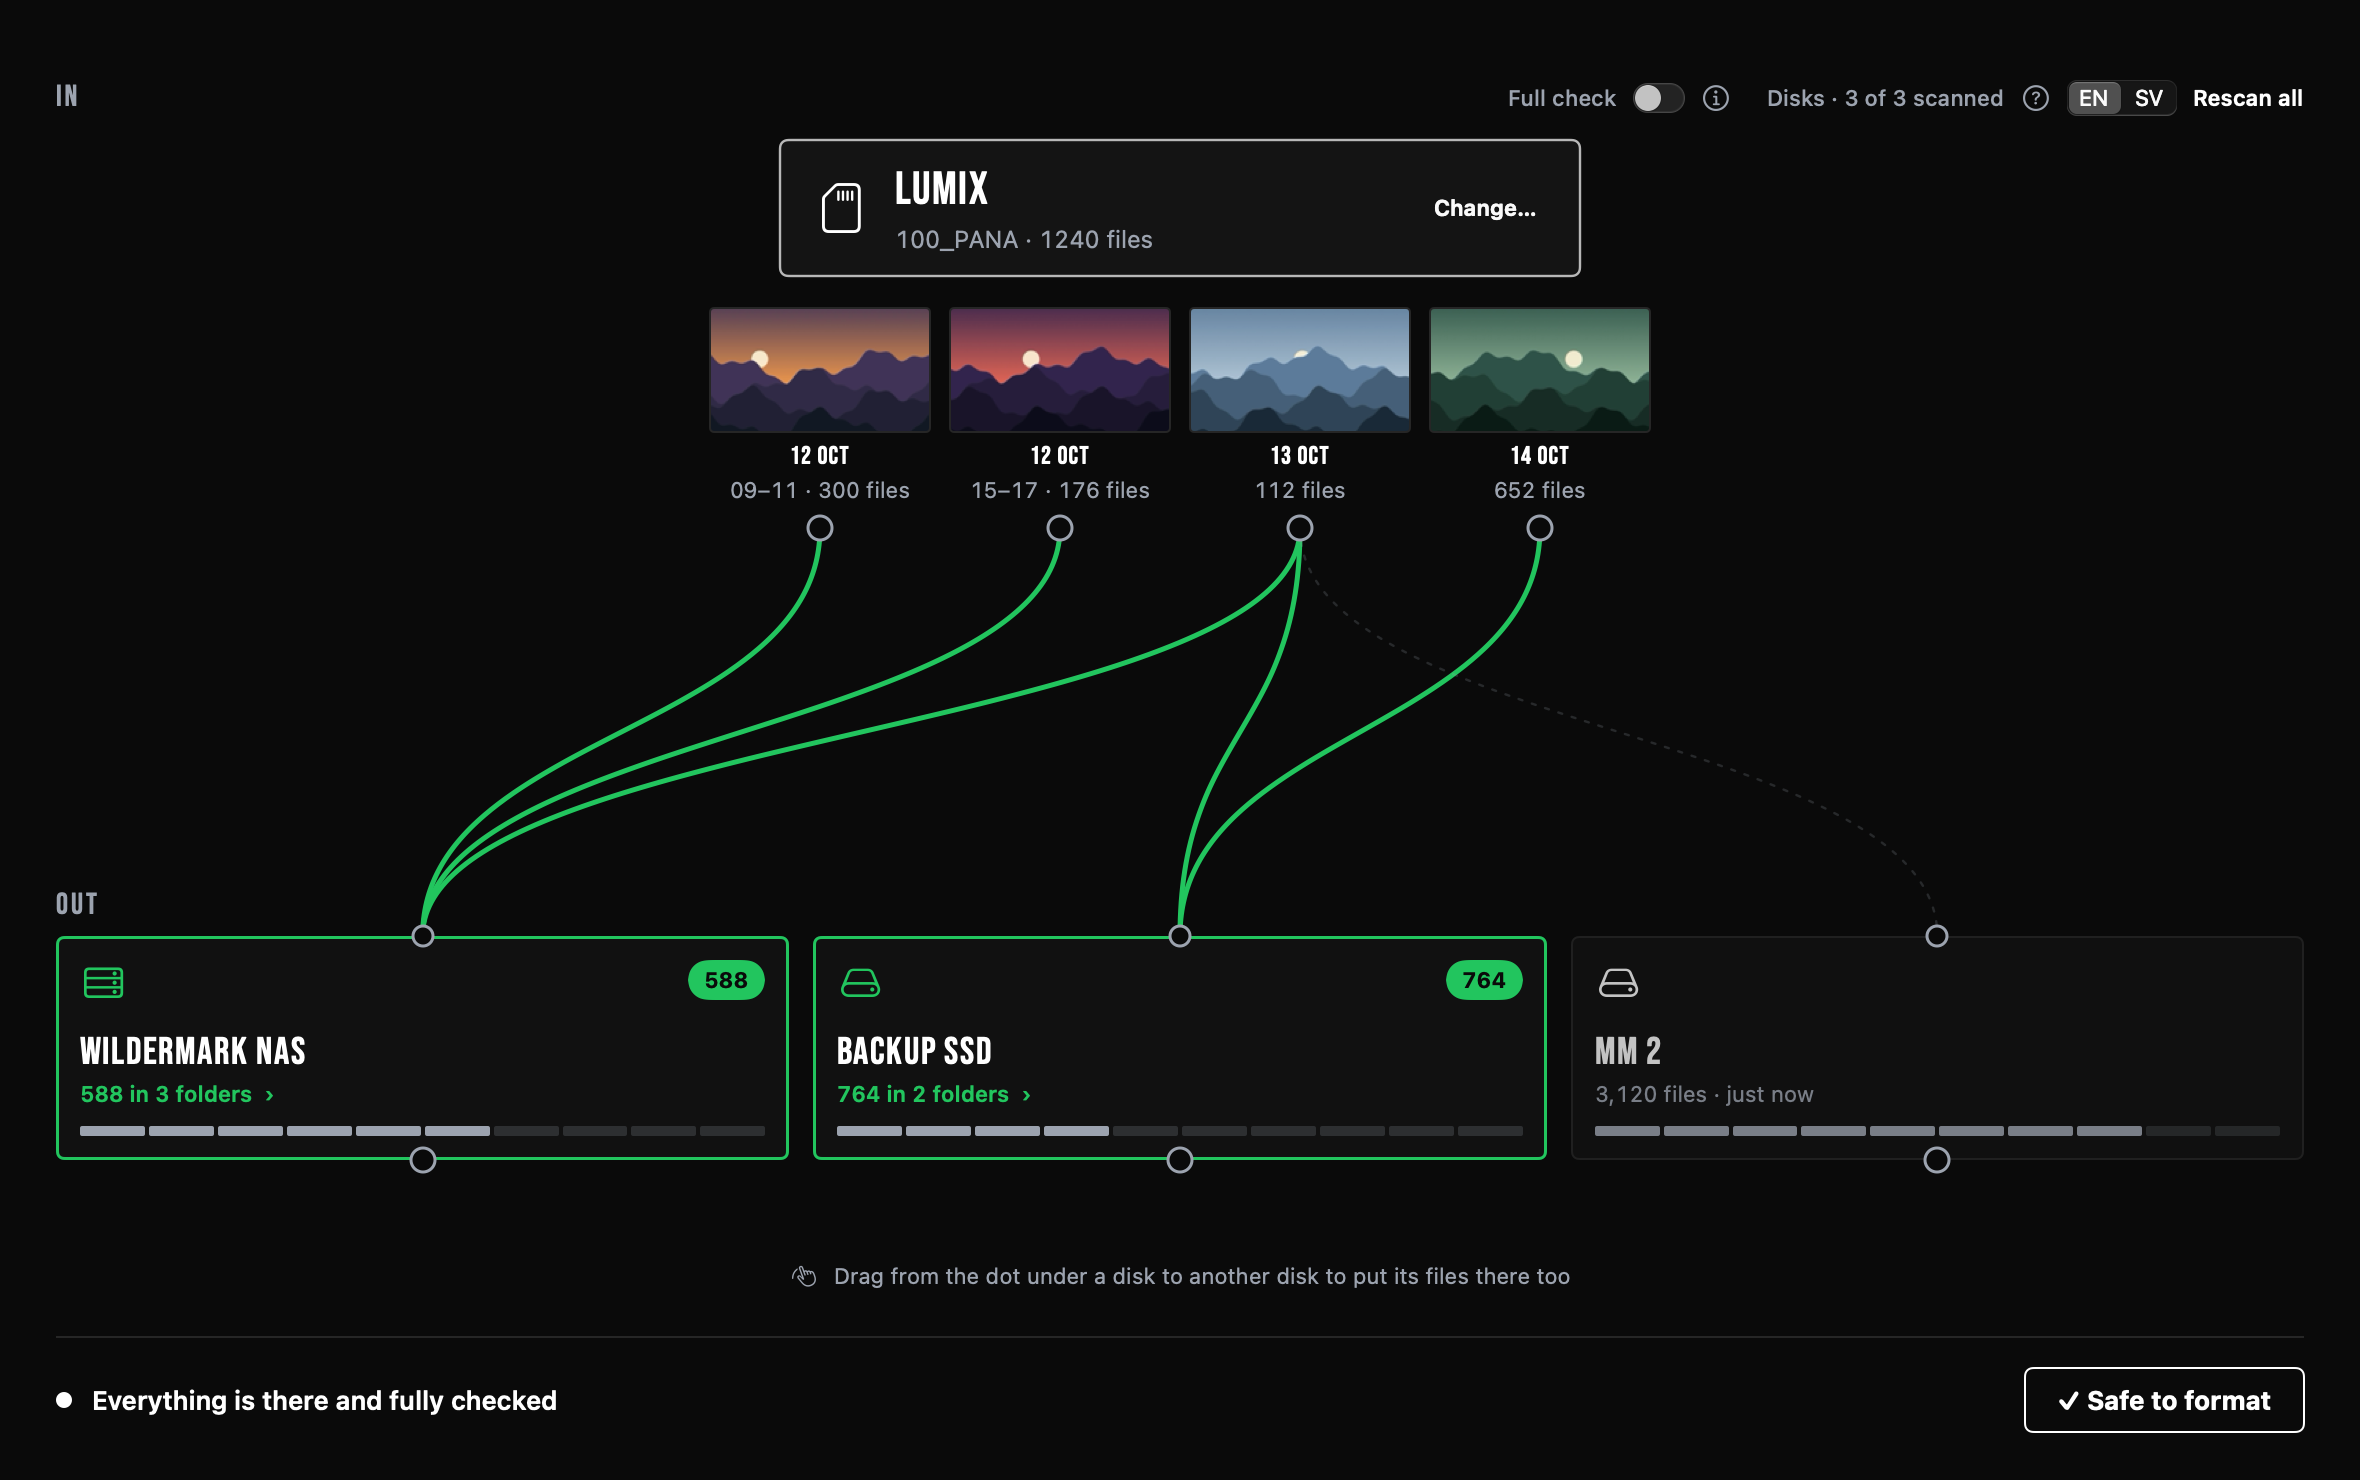
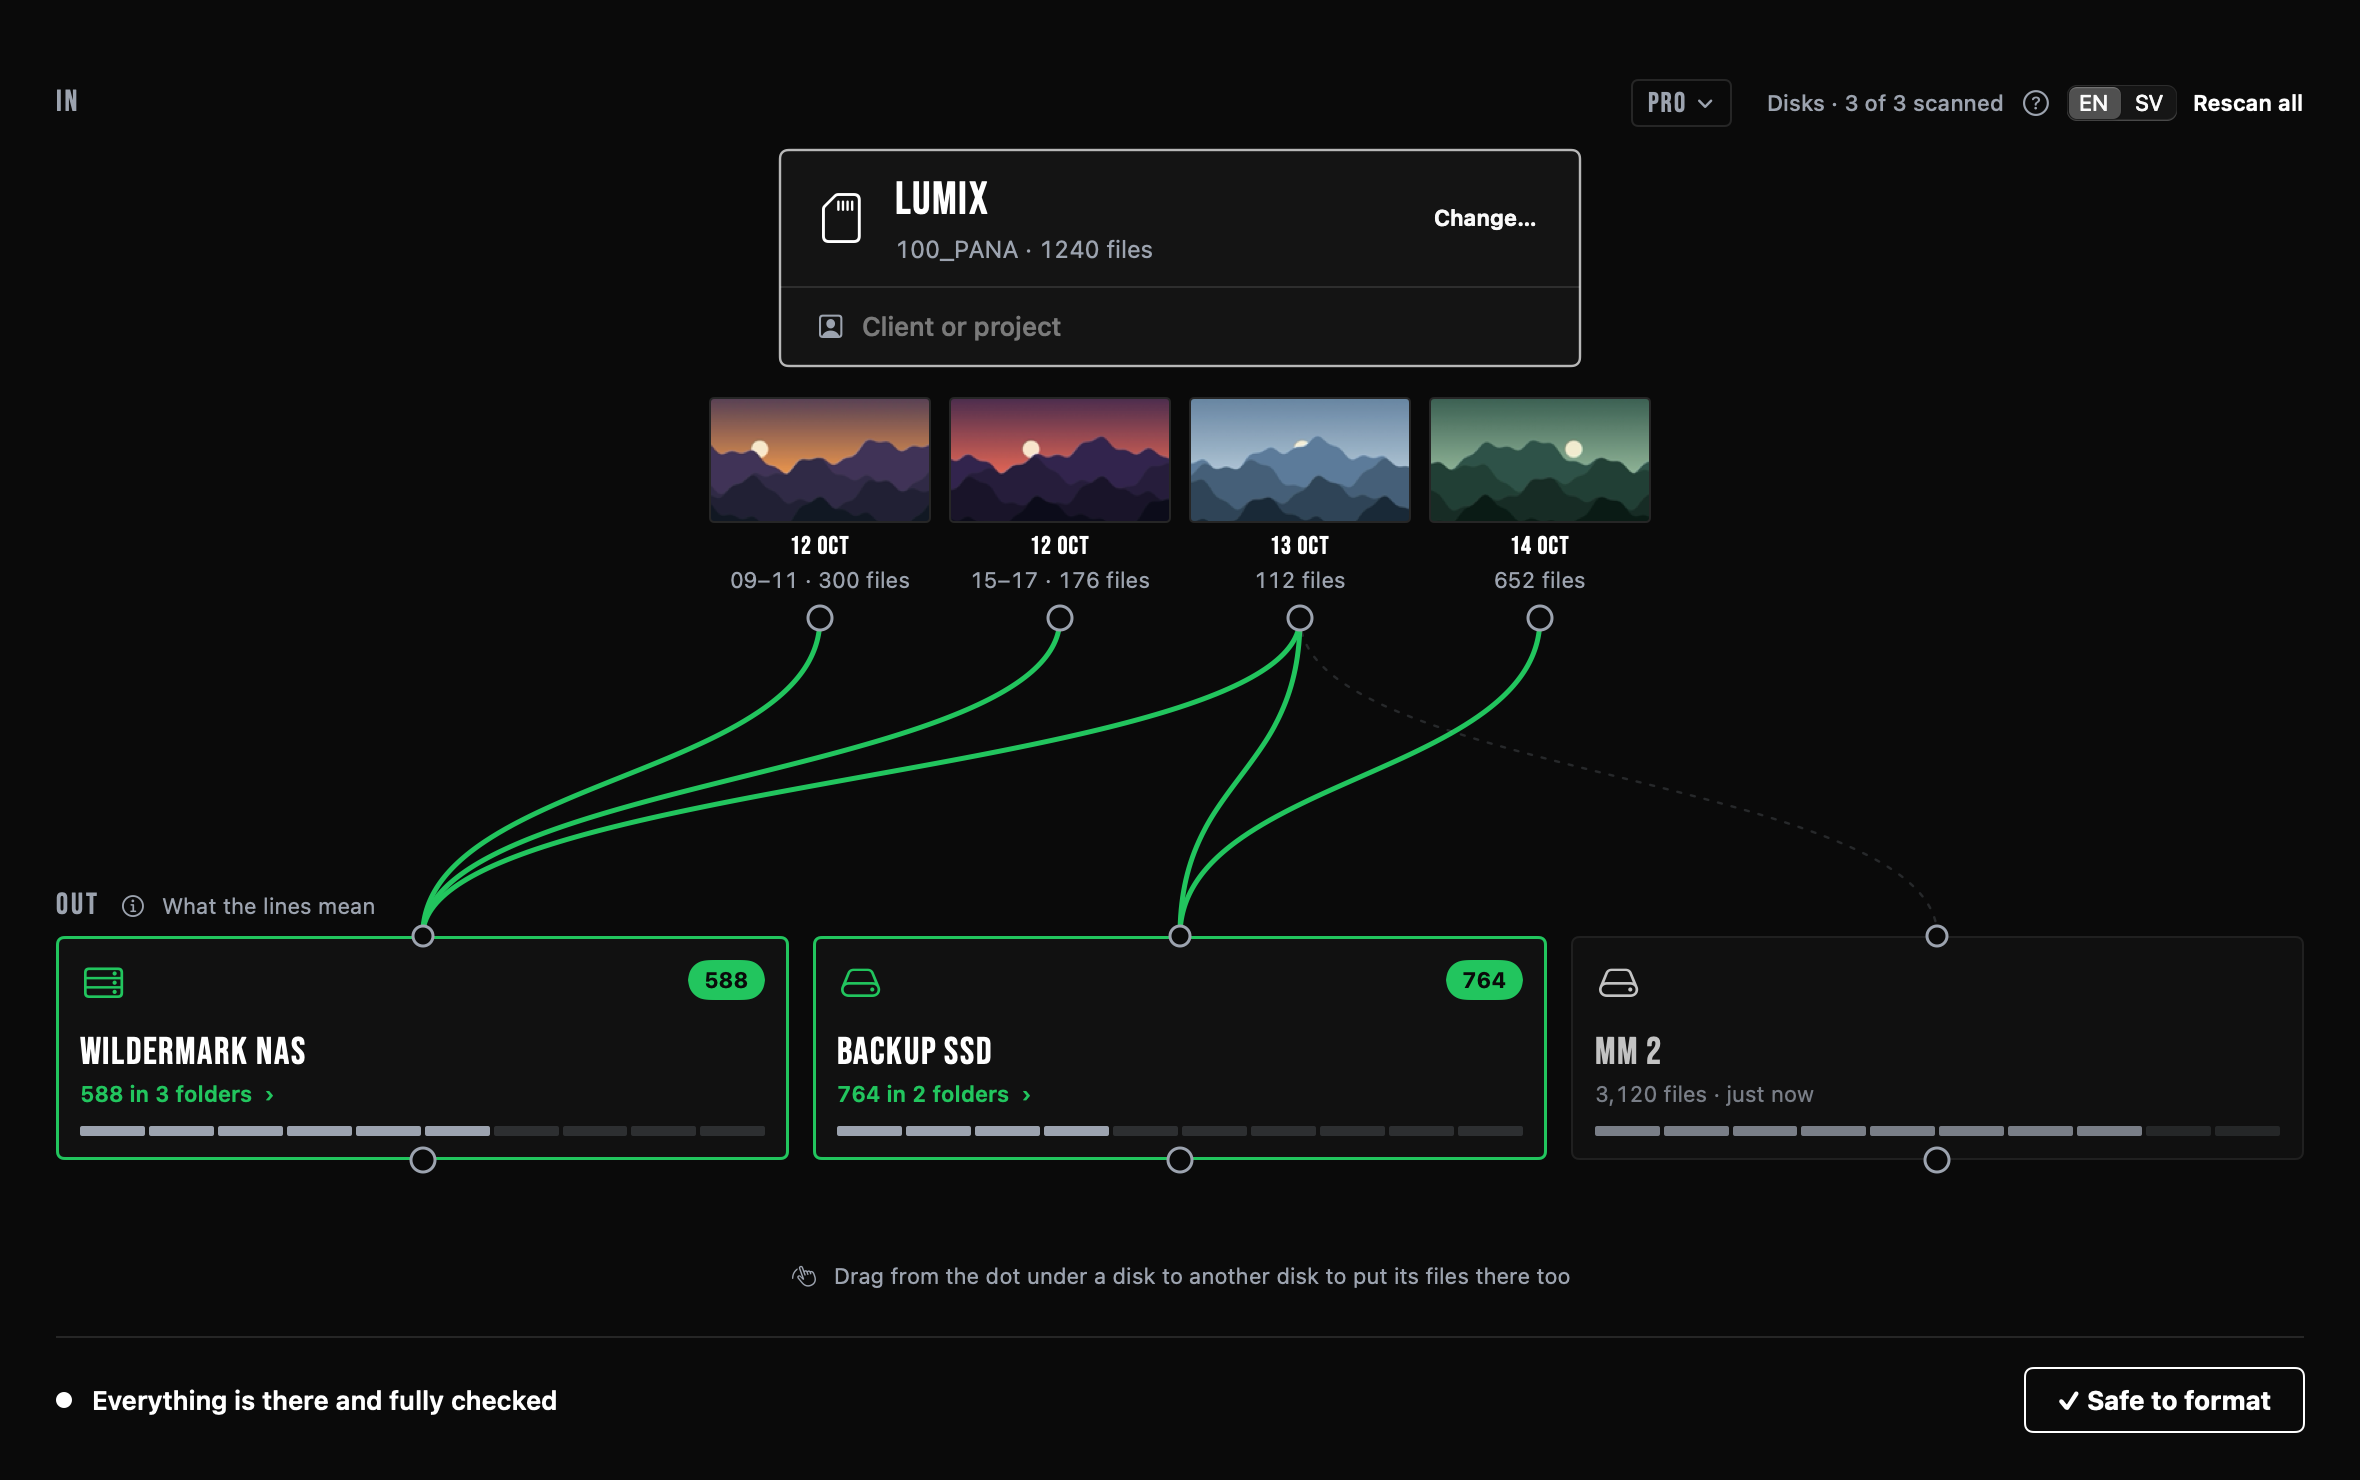
README and screenshots for 0.3

Changed region(s): [[0.0619, 0.0311, 0.9589, 0.6216]]

diff --git a/README.md b/README.md
@@ -6,10 +6,16 @@ A small Mac app for offloading memory cards. It shows which files on a card, dis
 
 - See every shoot on the card, with a line to each drive that already has it. Anything that isn't backed up shows up in yellow.
 - Drag a shoot to a drive to copy it. Every copy is checked against the original with xxHash-64.
+- Type a client or project on the card, and the drives show where that client's footage went before.
+- Every file on the card is shown, including the ones that aren't photos or videos, so nothing gets left behind.
+- If a copy is interrupted, for example by a loose cable, it picks up where it stopped.
+- Insert several cards in a row, and each one can go to the same place as the last.
+- Each card keeps a history of what was copied where, and when.
 - Copy to two drives at once. If one fills up, the other keeps going.
 - Sort copies with folder templates, like `Project/01_RAW/Cam A/2026-11-05`.
 - Finds renamed copies by size and samples of their content.
 - Plays a sound and sends a notification when the copy is done.
+- Tells you when there's a new version, shows what's new and updates itself.
 - Click the dot on a drive to see which folders each date ended up in.
 - Format and eject the card from the app when everything is there.
 - No account and no cloud. Everything stays on your Mac.
@@ -20,11 +26,19 @@ WilderLoader looks for cinema RAW and video (BRAW, R3D, ARRIRAW, Canon Cinema RA
 
 No list can cover everything. If a card holds a file WilderLoader doesn't recognize, it tells you and blocks the green format button, so you decide what to do with it.
 
+![A client typed on the card: the drives where it went before turn yellow](docs/client.png)
+
 ![Everything on the card is on a drive](docs/safe.png)
 
 ![Which folders each date ended up in](docs/map.png)
 
 ![Copying to two drives at once with a folder template](docs/two-disks.png)
+
+## Pro
+
+Behind the PRO button: a full byte-by-byte check of files already on a drive, an HTML report with every copy, MHL 1.1 checksum files for other tools, and a bar showing everything on the card.
+
+![The PRO panel](docs/pro.png)
 
 The screenshots use demo data.
 
@@ -34,7 +48,7 @@ WilderLoader never overwrites a file. It only erases when you format a card, and
 
 ## Download
 
-Get the latest zip under [Releases](../../releases). It needs Apple silicon and macOS 14 or later.
+Get the latest zip under [Releases](../../releases). It runs on Apple silicon and Intel Macs with macOS 14 or later. From 0.3 on, the app tells you about new versions itself.
 
 The app isn't notarized yet, so macOS will warn you the first time you open it. If you'd rather not trust a prebuilt app, build it yourself.
 
